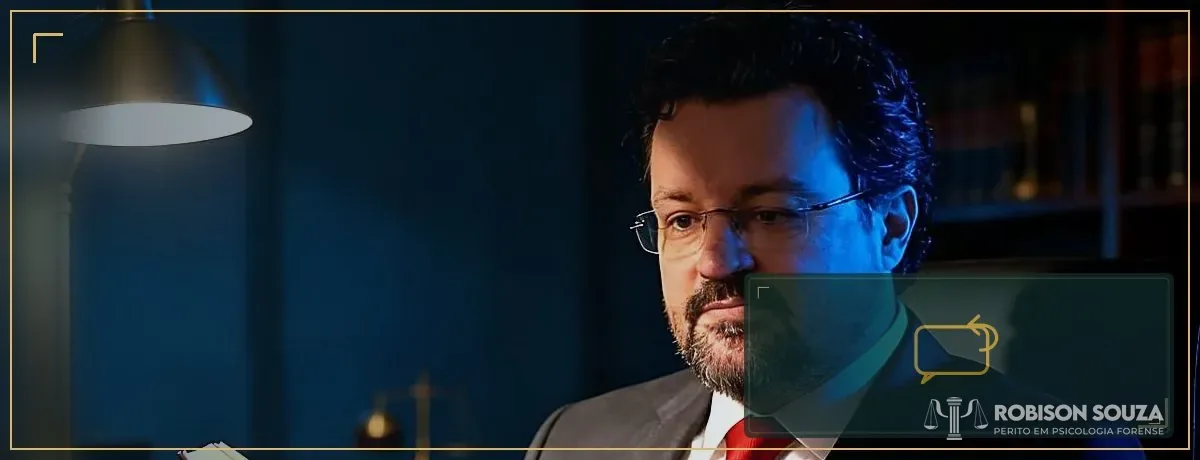
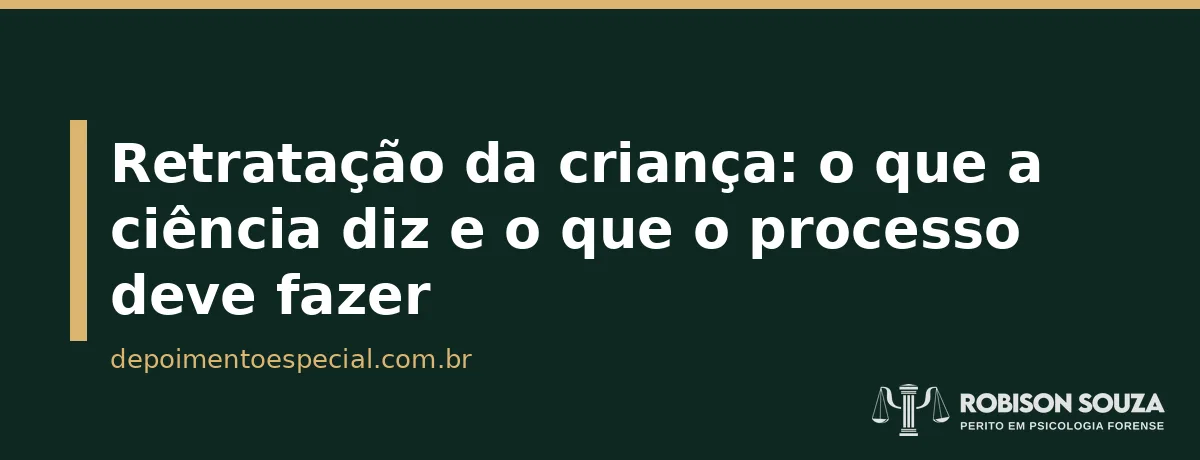
T7: novo artigo na fila — retratacao da crianca (67)

diff --git a/_fila/67-retratacao-da-crianca-no-depoimento-especial/index.html b/_fila/67-retratacao-da-crianca-no-depoimento-especial/index.html
@@ -1,0 +1,93 @@
+<!DOCTYPE html>
+<html lang="pt-BR">
+<head>
+<meta name="robots" content="index, follow, max-image-preview:large, max-snippet:-1, max-video-preview:-1">
+
+<meta charset="utf-8">
+<meta name="viewport" content="width=device-width, initial-scale=1">
+<meta name="theme-color" content="#0E2721">
+<link rel="icon" type="image/png" href="/assets/img/favicon.png">
+<link rel="apple-touch-icon" href="/assets/img/apple-touch-icon.png">
+<title>Retratação da criança: o que a ciência diz e o que o processo deve fazer | Robison Souza</title>
+<meta name="description" content="Por que crianças se retratam de relatos verdadeiros e falsos, o que a análise técnica examina numa retratação e as consequências processuais corretas.">
+<link rel="canonical" href="https://depoimentoespecial.com.br/blog/retratacao-da-crianca-no-depoimento-especial/">
+<meta property="og:title" content="Retratação da criança: o que a ciência diz e o que o processo deve fazer">
+<meta property="og:description" content="Por que crianças se retratam de relatos verdadeiros e falsos, o que a análise técnica examina numa retratação e as consequências processuais corretas.">
+<meta property="og:url" content="https://depoimentoespecial.com.br/blog/retratacao-da-crianca-no-depoimento-especial/">
+<meta property="og:type" content="article">
+<meta property="og:locale" content="pt_BR">
+<meta property="og:image" content="https://depoimentoespecial.com.br/assets/img/og/retratacao-da-crianca-no-depoimento-especial.jpg?v=9">
+</noscript>
+<link rel="stylesheet" href="/assets/style.css?v=58">
+<link rel="preload" as="font" type="font/woff2" href="/assets/fonts/fraunces.woff2" crossorigin>
+<link rel="preload" as="font" type="font/woff2" href="/assets/fonts/lora-400.woff2" crossorigin>
+<script type="application/ld+json">{"@context": "https://schema.org", "@type": "Article", "headline": "Retratação da criança: o que a ciência diz e o que o processo deve fazer", "image": ["https://depoimentoespecial.com.br/assets/img/og/retratacao-da-crianca-no-depoimento-especial.jpg?v=9"], "datePublished": "{{DATA_ISO}}", "inLanguage": "pt-BR", "author": {"@type": "Person", "name": "Robison de Souza Alves Pereira", "url": "https://depoimentoespecial.com.br"}, "publisher": {"@type": "Person", "name": "Robison de Souza Alves Pereira"}, "mainEntityOfPage": "https://depoimentoespecial.com.br/blog/retratacao-da-crianca-no-depoimento-especial/"}</script>
+<script type="application/ld+json">{"@context": "https://schema.org", "@type": "BreadcrumbList", "itemListElement": [{"@type": "ListItem", "position": 1, "name": "Início", "item": "https://depoimentoespecial.com.br/"}, {"@type": "ListItem", "position": 2, "name": "Blog", "item": "https://depoimentoespecial.com.br/blog/"}, {"@type": "ListItem", "position": 3, "name": "Retratação da criança: o que a ciência diz e o que o processo deve fazer"}]}</script>
+<script type="application/ld+json">{"@context": "https://schema.org", "@type": "FAQPage", "mainEntity": [{"@type": "Question", "name": "A criança pode ser conduzida coercitivamente para depor?", "acceptedAnswer": {"@type": "Answer", "text": "A condução do ato deve respeitar a condição peculiar da criança; constrangê-la a falar viola o art. 5º, §6º, e a lógica protetiva da lei."}}, {"@type": "Question", "name": "A recusa encerra o processo?", "acceptedAnswer": {"@type": "Answer", "text": "Não — o processo segue com as demais provas. O que a recusa encerra é a possibilidade de extrair da fala da criança o que ela não quis dar."}}, {"@type": "Question", "name": "Pode-se tentar nova oitiva depois da recusa?", "acceptedAnswer": {"@type": "Answer", "text": "Somente se imprescindível e justificado; a regra da intervenção mínima permanece, e a repetição pela repetição configura revitimização."}}, {"@type": "Question", "name": "O responsável pode responder pela criança?", "acceptedAnswer": {"@type": "Answer", "text": "Não — o relato de terceiros sobre o que a criança teria dito é prova indireta, com peso e problemas próprios, e não substitui o depoimento."}}, {"@type": "Question", "name": "O silêncio pode ser usado contra alguma das partes?", "acceptedAnswer": {"@type": "Answer", "text": "Não. Qualquer inferência probatória extraída do silêncio da criança — em qualquer direção — é tecnicamente indevida e impugnável."}}]}</script>
+<link rel="preload" as="image" href="/assets/img/blog/retratacao-da-crianca-no-depoimento-especial.webp" fetchpriority="high">
+</head>
+<body>
+<a class="pular" href="#conteudo">Pular para o conteúdo</a>
+<header class="site"><div class="wrap">
+  <a class="brand" href="/"><img src="/assets/img/logo-h.webp?v=2" alt="Robison Souza — Perito em Psicologia Forense" class="logo-header" width="2425" height="437"></a>
+  <nav class="main" aria-label="Navegação principal"><a href="/">Início</a><a href="/o-que-e-depoimento-especial/">O que é</a><a href="/assistente-tecnico/">Assistente Técnico</a><a href="/analise-de-entrevista-forense/">Depoimento Especial</a> <a href="/consultoria/">Consultoria</a><a href="/blog/" aria-current="page">Blog</a><a href="/quem-sou/">Quem Sou</a><a href="/contato/">Contato</a></nav>
+</div></header>
+<span id="conteudo"></span>
+
+<div class="wrap"><article class="prose">
+<span class="eyebrow">Blog · Depoimento Especial</span>
+<h1>Retratação da criança: o que a ciência diz e o que o processo deve fazer</h1>
+<p class="byline">Publicado em {{DATA}} · Robison de Souza Alves Pereira · Leitura de 7 min</p>
+<a href="https://wa.me/5512997402674?text=Ol%C3%A1!%20Vim%20pelo%20site%20depoimentoespecial.com.br%20e%20quero%20falar%20sobre%20o%20meu%20caso." target="_blank" rel="noopener" aria-label="Falar no WhatsApp com Robison Souza" title="Fale comigo no WhatsApp"><img class="art-hero" fetchpriority="high" src="/assets/img/blog/retratacao-da-crianca-no-depoimento-especial.webp" alt="Capa — Retratação da criança: o que a ciência diz e o que o processo deve fazer" width="1200" height="460" loading="eager"></a>
+<p class="lead"><strong>A criança relatou o abuso — e semanas depois disse que "inventou tudo". A retratação é um dos fenômenos mais mal interpretados do processo penal: para leigos, prova de mentira; para a ciência do testemunho, um evento que tanto pode revelar falsidade original quanto pressão sobre um relato verdadeiro. O que muda o destino do processo é a análise técnica do contexto — nunca a retratação em si.</strong></p>
+<h2 id="o-que-a-ciencia-documenta">O que a ciência documenta sobre retratações</h2>
+<p>A literatura de psicologia do testemunho registra retratações em parcela relevante dos casos reais de abuso confirmado — especialmente quando a revelação desencadeia crise familiar, a criança percebe as consequências (prisão de alguém querido, separação, sofrimento da mãe) ou passa a conviver sob pressão de quem depende emocional e financeiramente do acusado. O modelo clássico da síndrome de acomodação descreve exatamente essa trajetória: revelação, ambivalência, retratação. Ao mesmo tempo, retratações também ocorrem em casos de alegações falsas — quando a sugestão que plantou o relato perde força ou a criança encontra espaço seguro para desdizer o que nunca viveu.</p>
+<p>Conclusão técnica honesta: a retratação, isolada, não diferencia relato verdadeiro de falso. Quem afirma o contrário — em qualquer direção — está além do que a ciência autoriza.</p>
+<h2 id="as-duas-leituras-e-seus-erros">As duas leituras apressadas — e o erro de cada uma</h2>
+<ul>
+<li><strong>"Retratou-se, logo mentiu":</strong> ignora a pressão pós-revelação, o sentimento de culpa da criança e o ambiente em que a retratação foi produzida — quem estava presente? quem levou a criança a "consertar" a história?</li>
+<li><strong>"Retratou-se porque foi coagida, logo o relato original é verdadeiro":</strong> transforma hipótese em certeza e blinda a acusação contra qualquer contraprova — o mesmo vício metodológico, de sinal trocado.</li>
+</ul>
+<h2 id="o-que-a-analise-tecnica-examina">O que a análise técnica examina numa retratação</h2>
+<p>O exame pericial compara as condições de produção dos dois relatos: o original foi colhido conforme os protocolos (perguntas abertas, sem indução, gravação íntegra — Lei 13.431/2017)? A retratação surgiu espontaneamente ou após contatos documentáveis com interessados? Há mudança no padrão de linguagem — a criança que relata com vocabulário próprio e se retrata com frases adultas conta duas histórias com autores diferentes? O comportamento circundante (escola, sono, sintomas) acompanha qual das versões? Nenhuma dessas perguntas se responde com impressão; todas se respondem com registro, cronologia e método.</p>
+<h2 id="consequencias-processuais">Consequências processuais práticas</h2>
+<p>Para a acusação, a retratação exige investigação complementar do contexto — jamais o arquivamento automático. Para a defesa, ela abre a via da nova oitiva (com os cuidados do art. 11 da Lei 13.431/2017 contra a revitimização) e da análise técnica das gravações. Para o juízo, impõe a valoração conjunta: os dois relatos, as condições de cada um e as provas externas. O assistente técnico atua exatamente nessa costura — formulando quesitos sobre as condições de produção de ambos os relatos e produzindo parecer sobre o que as gravações efetivamente mostram.</p>
+<h2 id="o-erro-que-nenhuma-familia-deve-cometer">O erro que nenhuma família deve cometer</h2>
+<p>Diante de uma retratação — desejada ou temida —, a pior conduta é interrogar a criança para "confirmar a verdade". Cada nova conversa dirigida contamina o material que a perícia precisará analisar e pode configurar, ela própria, violência psicológica. O caminho é registrar o fato com data e contexto, comunicar ao advogado e deixar a escuta para o rito protegido.</p>
+<h2 id="leituras-relacionadas">Leituras relacionadas</h2>
+<ul>
+<li><a href="/blog/revelacao-tardia-no-depoimento-especial/">Revelação tardia no depoimento especial</a></li>
+<li><a href="/blog/falsas-memorias-em-relatos-infantis/">Falsas memórias em relatos infantis</a></li>
+<li><a href="/glossario/">Glossário dos termos técnicos</a></li>
+</ul>
+<div class="cta-band">
+  <h2 id="precisa-de-analise-tecnica-em-um-depoimento-especial">Precisa de análise técnica em um depoimento especial?</h2>
+  <p>Atendimento a advogados e partes em todo o Brasil. Envie os dados do processo e receba, em até 24 horas, uma avaliação inicial gratuita da viabilidade técnica — se tiver pressa, chame no WhatsApp.</p>
+  <a class="btn" href="https://calendar.app.google/fY1qWPAQW64dJNuQ6" rel="noopener">Agendar avaliação inicial gratuita</a> <a class="btn" href="https://wa.me/5512997402674?text=Ol%C3%A1!%20Vim%20pelo%20site%20depoimentoespecial.com.br%20e%20quero%20falar%20sobre%20o%20meu%20caso." rel="noopener">WhatsApp (12) 99740-2674</a>
+</div>
+<footer class="site">
+  <div class="wrap">
+<div class="news-band"><div><h2>Receba um artigo técnico por dia</h2><p>Direto no seu e-mail — e o Guia Prático em PDF de bônus imediato.</p></div><form class="ft-news" action="https://formsubmit.co/psicologo@robisonsouza.com.br" method="POST"><input type="hidden" name="_subject" value="Inscrição no blog (rodapé depoimentoespecial.com.br)"><input type="hidden" name="_next" value="https://depoimentoespecial.com.br/inscrito/"><input type="text" name="_honey" style="display:none"><input type="email" name="email" required placeholder="Seu melhor e-mail" aria-label="Seu e-mail"><button class="btn" type="submit">Quero receber</button></form></div>
+    <div class="cols">
+      <div>
+        <img src="/assets/img/logo-v.webp" alt="Robison Souza — Perito em Psicologia Forense" class="logo-footer" width="1709" height="981">
+        <p>Perito em Psicologia Forense — CRP 06/156275<br>Perito Auxiliar da Justiça · TJSP nº 66.627<br>RBS Consultoria e Assistência Técnica em Psicologia Jurídica</p>
+      </div>
+      <div>
+        <p><strong>Contato</strong></p><p class="ft-linha"><span class="ft-rotulo"><svg class="ft-ico" viewBox="0 0 24 24" aria-hidden="true"><path d="M22 16.9v3a2 2 0 0 1-2.2 2 19.8 19.8 0 0 1-8.6-3.1 19.5 19.5 0 0 1-6-6A19.8 19.8 0 0 1 2.1 4.2 2 2 0 0 1 4.1 2h3a2 2 0 0 1 2 1.7c.1 1 .4 2 .7 2.9a2 2 0 0 1-.5 2.1L8.1 10a16 16 0 0 0 6 6l1.3-1.3a2 2 0 0 1 2.1-.5c.9.3 1.9.6 2.9.7a2 2 0 0 1 1.7 2z"/></svg>WhatsApp</span><a href="https://wa.me/5512997402674?text=Ol%C3%A1!%20Vim%20pelo%20site%20depoimentoespecial.com.br%20e%20quero%20falar%20sobre%20o%20meu%20caso." rel="noopener">(12) 99740-2674</a></p><p class="ft-linha"><span class="ft-rotulo"><svg class="ft-ico" viewBox="0 0 24 24" aria-hidden="true"><rect x="2" y="4" width="20" height="16" rx="2"/><path d="m22 7-10 6L2 7"/></svg>E-mail</span><a class="ft-email" href="mailto:psicologo@robisonsouza.com.br">psicologo@robisonsouza.com.br</a></p><p class="ft-linha"><span class="ft-rotulo"><svg class="ft-ico" viewBox="0 0 24 24" aria-hidden="true"><path d="M20 10c0 6-8 12-8 12S4 16 4 10a8 8 0 0 1 16 0z"/><circle cx="12" cy="10" r="3"/></svg>Endereço</span>Av. Paulista, 1471 - Conj 1110<br>Bela Vista — São Paulo/SP — CEP 01311-927<br><em style="color:#DCB671;font-style:normal;font-size:.85rem;letter-spacing:.03em">Atendimento só com hora marcada!</em></p>
+      </div>
+      <div>
+        <p><strong>Materiais</strong><br><a href="/glossario/">Glossário</a><br><a href="/assets/guia-depoimento-especial.pdf">Guia do Estudo&nbsp;Psicossocial&nbsp;(PDF)</a><br><a href="/perguntas-frequentes/">Perguntas frequentes</a><br><a href="/preciso-de-assistente-tecnico/">Teste: preciso de assistente&nbsp;técnico?</a><br><a href="/blog/">Blog</a> · <a href="/blog/feed.xml">RSS</a><br><a href="/politica-de-privacidade/">Política de Privacidade</a></p>
+      </div>
+      <div>
+        <p><strong>Outros sites</strong><br><a href="https://depoimentoespecial.com.br" rel="noopener">depoimentoespecial.com.br</a><br><a href="https://robisonsouza.com.br" rel="noopener">robisonsouza.com.br</a><br><a href="https://peritoempsicologiaforense.com.br" rel="noopener">peritoempsicologiaforense.com.br</a></p>
+        <p><strong>Perfis</strong><br><a href="https://www.instagram.com/robison.psicologo/" rel="noopener">Instagram</a> · <a href="https://www.linkedin.com/in/robisonperitoforense/" rel="noopener">LinkedIn</a><br><a href="https://www.facebook.com/rbs.psi/" rel="noopener">Facebook</a> · <a href="https://www.youtube.com/@robisonperitoforense" rel="noopener">YouTube</a><br><a href="https://lattes.cnpq.br/3674694446987973" rel="noopener">Currículo&nbsp;Lattes</a><br><a href="https://www.google.com/maps/place/?q=place_id:ChIJqWcXDiu1zZQR8bblca5RhKc" rel="noopener">Avaliações no&nbsp;Google</a></p>
+      </div>
+    </div>
+    <div class="mapa-rodape mapa-escuro"><iframe src="https://www.google.com/maps?q=Av.%20Paulista%2C%201471%20-%20Conj%201110%2C%20Bela%20Vista%2C%20S%C3%A3o%20Paulo%20-%20SP%2C%2001311-927&output=embed" loading="lazy" referrerpolicy="no-referrer-when-downgrade" title="Mapa — Av. Paulista, 1471, São Paulo"></iframe></div>
+<div class="mapa-acao"><span>Av. Paulista, 1471 - Conj 1110 — Bela Vista, São Paulo/SP</span><a class="btn-gmaps" href="https://www.google.com/maps/dir/?api=1&destination=Av.%20Paulista%2C%201471%20-%20Conj%201110%2C%20Bela%20Vista%2C%20S%C3%A3o%20Paulo%20-%20SP%2C%2001311-927&destination_place_id=ChIJqWcXDiu1zZQR8bblca5RhKc" rel="noopener"><svg class="pino-gmaps" viewBox="0 0 24 24" style="width:23px;height:23px;flex:none" aria-hidden="true"><path fill="#EA4335" d="M12 2a7 7 0 0 1 7 7c0 5.2-7 13-7 13S5 14.2 5 9a7 7 0 0 1 7-7z"/><circle fill="#7B1FA2" fill-opacity="0" cx="12" cy="9" r="2.6"/><circle fill="#fff" cx="12" cy="9" r="2.6"/></svg>Como chegar</a></div>
+<p class="legal">© 2026 Robison de Souza Alves Pereira — Perito em Psicologia Forense · Perito Auxiliar da Justiça no TJSP sob o nº 66.627 · Psicólogo devidamente inscrito no CRP 06/156275 · Atuação como assistente técnico em conformidade com as Resoluções CFP nº 008/2010 e nº 06/2019: análise técnica restrita aos autos, documentos e gravações do processo, sem avaliação direta de pessoas que sejam objeto de perícia da parte contrária — independência e método científico como regra.</p>
+  </div>
+</footer>
+<a class="zap-flutuante" href="https://wa.me/5512997402674?text=Ol%C3%A1%2C%20vim%20pelo%20site%20depoimentoespecial.com.br%20e%20gostaria%20de%20uma%20avalia%C3%A7%C3%A3o%20inicial." rel="noopener" aria-label="Falar no WhatsApp"><img class="zap-foto" src="/assets/img/retrato-thumb.webp" alt="Robison Souza" width="56" height="56" loading="lazy" decoding="async"><span class="zap-txt"><span class="zap-status">Online agora</span><span class="zap-canal">WhatsApp</span></span></a>
+</body></html>
